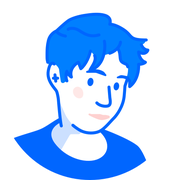
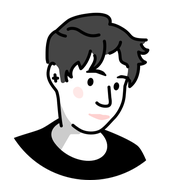
feat: update site footer with last updated timestamp; enhance layout and styling

Changed region(s): [[0.0556, 0.0556, 0.8333, 1.0]]

diff --git a/src/updated.ts b/src/updated.ts
@@ -1,0 +1,37 @@
+import { execSync } from 'node:child_process';
+
+/**
+ * When the site last changed, for the line in the footer.
+ *
+ * Taken from the last commit rather than the build clock: re-running a
+ * workflow, or rebuilding locally, would otherwise advance the date while
+ * nothing had actually changed. A commit date only moves when content does.
+ *
+ * `actions/checkout` clones at depth 1, which is still enough for `-1`.
+ * Falls back to the build time outside a git checkout.
+ */
+function lastChanged(): Date {
+  try {
+    const iso = execSync('git log -1 --format=%cI', {
+      encoding: 'utf8',
+      stdio: ['ignore', 'pipe', 'ignore'],
+    }).trim();
+    const date = new Date(iso);
+    if (!Number.isNaN(date.valueOf())) return date;
+  } catch {
+    // Not a git checkout, or git is unavailable.
+  }
+  return new Date();
+}
+
+export const siteUpdated = lastChanged();
+
+/**
+ * Month and year only. To the day it reads like a changelog entry and invites
+ * the reader to work out how stale the site is; the month is enough to answer
+ * the only question being asked, which is whether anyone is still here.
+ */
+export const siteUpdatedLabel = new Intl.DateTimeFormat('en-NZ', {
+  month: 'long',
+  year: 'numeric',
+}).format(siteUpdated);

diff --git a/src/styles/global.css b/src/styles/global.css
@@ -225,8 +225,23 @@ a:hover {
 
 .site-footer .wrap {
   display: flex;
+  flex-direction: column;
+  align-items: center;
+  gap: 1.5rem; /* 27px */
+}
+
+.site-footer__links {
+  display: flex;
   gap: 1.25rem;
-  justify-content: center;
+}
+
+/* Whole-site freshness, not this page's. Left in the body serif rather than
+   the sans used for labels and nav: this is a sentence, not a meta chip, and
+   the serif is what makes it read as a quiet footnote. */
+.site-footer__updated {
+  margin: 0;
+  font-size: 0.875rem;
+  color: var(--muted);
 }
 
 .site-footer a {
